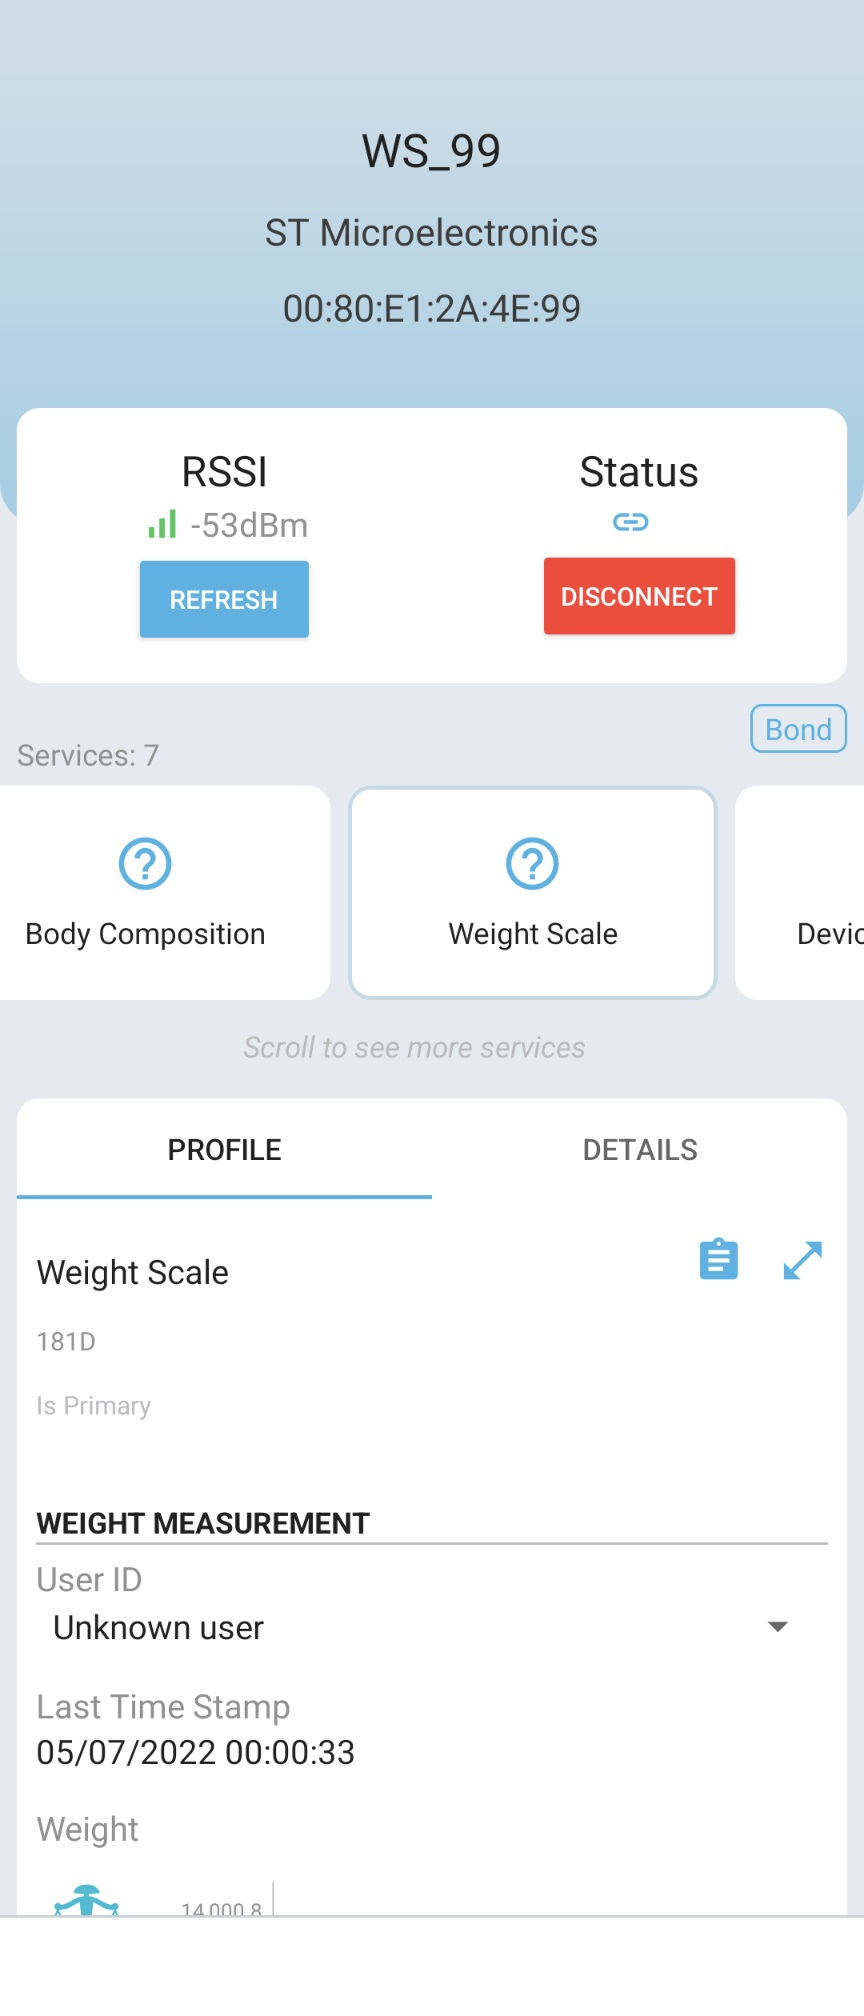
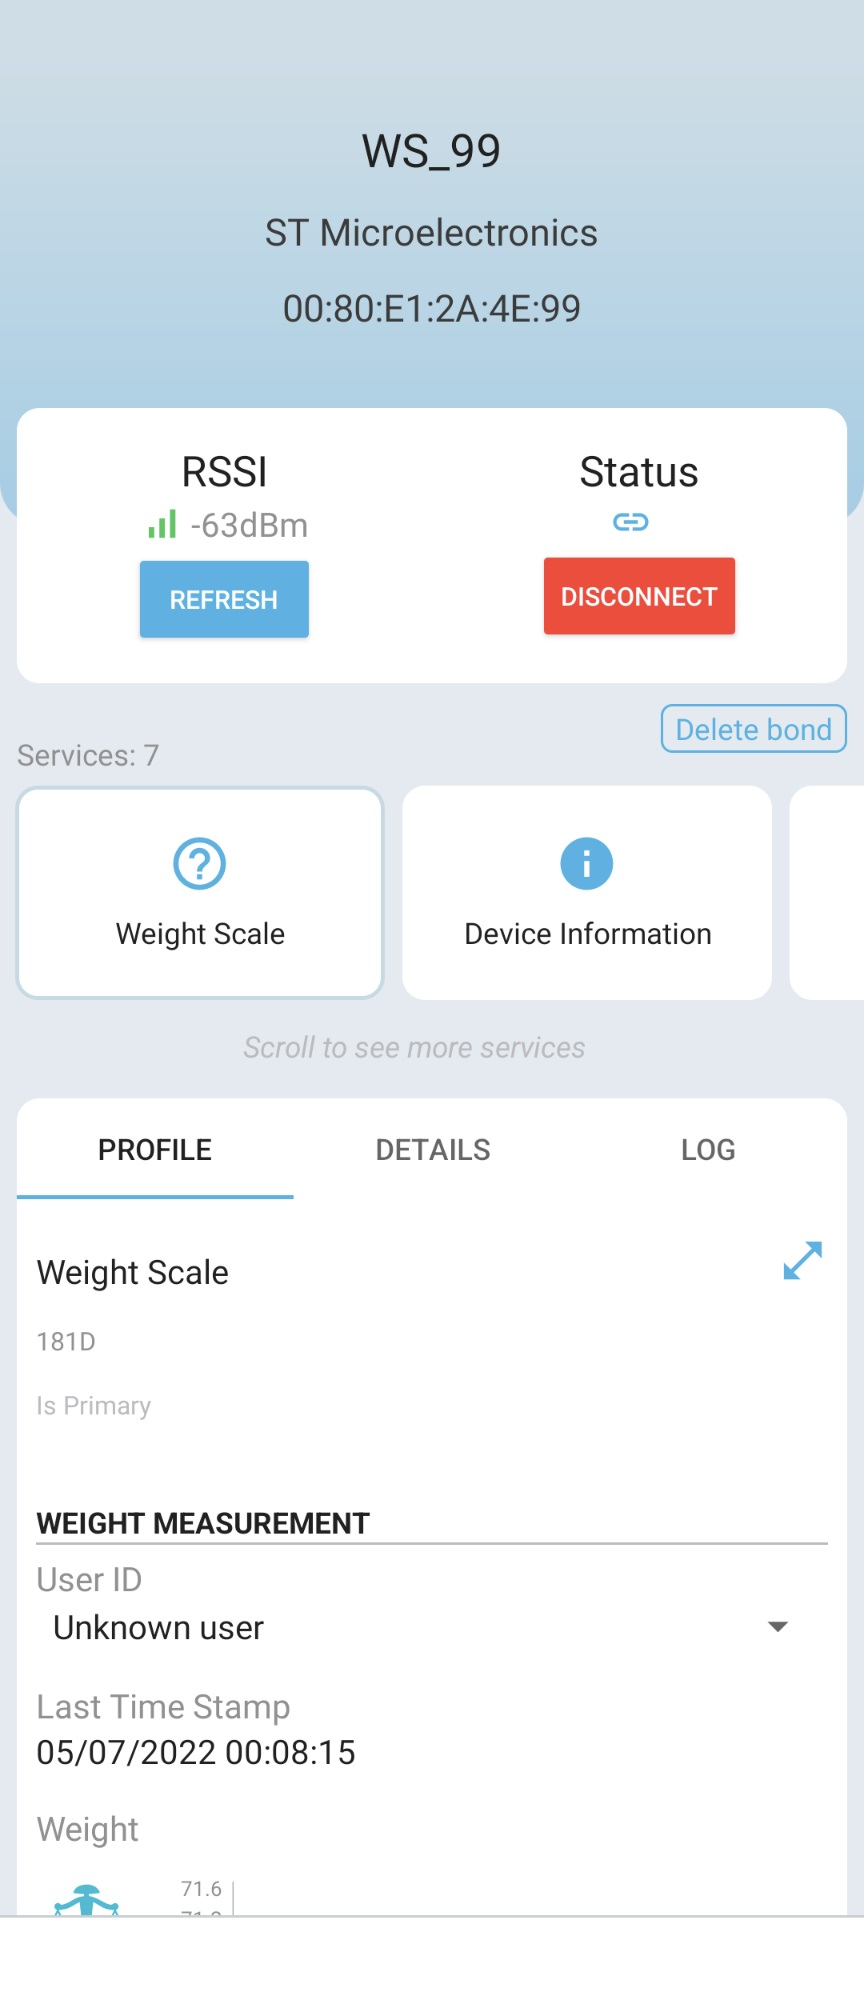
Update README.md, new pictures, remove pairing constraints

diff --git a/Projects/NUCLEO-WBA55CG/Applications/BLE/BLE_WeightScale/STM32_WPAN/App/bcs_app.c b/Projects/NUCLEO-WBA55CG/Applications/BLE/BLE_WeightScale/STM32_WPAN/App/bcs_app.c
@@ -63,7 +63,6 @@ typedef struct
   uint8_t Indication_Status;
   UTIL_TIMER_Object_t TimerMeasurement_Id;
   uint32_t StartTick;
-  uint8_t Paired;
   /* USER CODE END Service3_APP_Context_t */
   uint16_t              ConnectionHandle;
 } BCS_APP_Context_t;
@@ -144,24 +143,18 @@ void BCS_Notification(BCS_NotificationEvt_t *p_Notification)
 
     case BCS_BCM_INDICATE_ENABLED_EVT:
       /* USER CODE BEGIN Service3Char2_INDICATE_ENABLED_EVT */
-      if(BCS_APP_Context.Paired == TRUE)
-      {  
-        BCS_APP_Context.Indication_Status = 1;
-        
-        UTIL_TIMER_Stop(&(BCS_APP_Context.TimerMeasurement_Id));
-        UTIL_TIMER_StartWithPeriod(&(BCS_APP_Context.TimerMeasurement_Id), BCS_APP_MEASUREMENT_INTERVAL);
-      }
+      BCS_APP_Context.Indication_Status = 1;
+      
+      UTIL_TIMER_Stop(&(BCS_APP_Context.TimerMeasurement_Id));
+      UTIL_TIMER_StartWithPeriod(&(BCS_APP_Context.TimerMeasurement_Id), BCS_APP_MEASUREMENT_INTERVAL);
       /* USER CODE END Service3Char2_INDICATE_ENABLED_EVT */
       break;
 
     case BCS_BCM_INDICATE_DISABLED_EVT:
       /* USER CODE BEGIN Service3Char2_INDICATE_DISABLED_EVT */
-      if(BCS_APP_Context.Paired == TRUE)
-      {  
-        BCS_APP_Context.Indication_Status = 0;
-        
-        UTIL_TIMER_Stop(&(BCS_APP_Context.TimerMeasurement_Id));
-      }
+      BCS_APP_Context.Indication_Status = 0;
+      
+      UTIL_TIMER_Stop(&(BCS_APP_Context.TimerMeasurement_Id));
       /* USER CODE END Service3Char2_INDICATE_DISABLED_EVT */
       break;
 
@@ -198,7 +191,7 @@ void BCS_APP_EvtRx(BCS_APP_ConnHandleNotEvt_t *p_Notification)
     /* USER CODE END Service3_APP_EvtRx_Service3_EvtOpcode */
     case BCS_CONN_HANDLE_EVT :
       /* USER CODE BEGIN Service3_APP_CONN_HANDLE_EVT */
-      BCS_APP_Context.Paired = p_Notification->PairingComplete;
+
       /* USER CODE END Service3_APP_CONN_HANDLE_EVT */
       break;
 

diff --git a/Projects/NUCLEO-WBA55CG/Applications/BLE/BLE_WeightScale/STM32_WPAN/App/wss_app.c b/Projects/NUCLEO-WBA55CG/Applications/BLE/BLE_WeightScale/STM32_WPAN/App/wss_app.c
@@ -63,7 +63,6 @@ typedef struct
   uint8_t Indication_Status;
   UTIL_TIMER_Object_t TimerMeasurement_Id;
   uint32_t StartTick;
-  uint8_t Paired;
   /* USER CODE END Service2_APP_Context_t */
   uint16_t              ConnectionHandle;
 } WSS_APP_Context_t;
@@ -148,19 +147,13 @@ void WSS_Notification(WSS_NotificationEvt_t *p_Notification)
 
     case WSS_MNBS_INDICATE_ENABLED_EVT:
       /* USER CODE BEGIN Service2Char2_INDICATE_ENABLED_EVT */
-      if(WSS_APP_Context.Paired == TRUE)
-      {
-        WSS_APP_Context.Indication_Status = 1;
-      }
+      WSS_APP_Context.Indication_Status = 1;
       /* USER CODE END Service2Char2_INDICATE_ENABLED_EVT */
       break;
 
     case WSS_MNBS_INDICATE_DISABLED_EVT:
       /* USER CODE BEGIN Service2Char2_INDICATE_DISABLED_EVT */
-      if(WSS_APP_Context.Paired == TRUE)
-      {
-        WSS_APP_Context.Indication_Status = 0;
-      }
+      WSS_APP_Context.Indication_Status = 0;
       /* USER CODE END Service2Char2_INDICATE_DISABLED_EVT */
       break;
 
@@ -194,7 +187,7 @@ void WSS_APP_EvtRx(WSS_APP_ConnHandleNotEvt_t *p_Notification)
     /* USER CODE END Service2_APP_EvtRx_Service2_EvtOpcode */
     case WSS_CONN_HANDLE_EVT :
       /* USER CODE BEGIN Service2_APP_CONN_HANDLE_EVT */
-      WSS_APP_Context.Paired = p_Notification->PairingComplete;
+
       /* USER CODE END Service2_APP_CONN_HANDLE_EVT */
       break;
 

diff --git a/README.md b/README.md
@@ -11,18 +11,44 @@
 
 1) Run this Bluetooth® Low Energy Weight Scale project where the STM32WBA will advertise
 
-2) Use the ANDROID/IOS ST BLE Sensor application or ST BLE Toolbox application to connect with this Bluetooth® Low Energy [Weight Scale Profile 1.0](https://www.bluetooth.org/docman/handlers/downloaddoc.ashx?doc_id=293525) (WSS_XX where XX is the 2 last digit of the Bluetooth® Device Address)
+2) Use one of the following remote interfaces to interact with your device: <a href="https://wiki.st.com/stm32mcu/wiki/Connectivity:BLE_smartphone_applications#Bluetooth-C2-AE_LE_collector_applications_for_STM32WBA
+"> Bluetooth LE collector applications for STM32WBA.</a>
+   On the smartphone, download the <a href="https://wiki.st.com/stm32mcu/wiki/Connectivity:BLE_smartphone_applications#Bluetooth-C2-AE_LE_collector_applications_for_STM32WBA
+"> Bluetooth LE collector applications for STM32WBA.</a> application.
+
+With the ANDROID/IOS ST BLE Toolbox application to connect with this Bluetooth® Low Energy [Weight Scale Profile 1.0](https://www.bluetooth.org/docman/handlers/downloaddoc.ashx?doc_id=293525) (WSS_XX where XX is the 2 last digit of the Bluetooth® Device Address)
   
    Scan on ANDROID/IOS:
    <div align="center">
        <img src="Utilities/Media/WSS_Toolbox.jpg" alt="image" width="300" height="auto">
    </div>
-
-   After Connection and Selecting the [Weight Scale Service 1.0](https://www.bluetooth.org/docman/handlers/downloaddoc.ashx?doc_id=293526) on ANDROID/IOS you will see the following Characteristics:
+   
+   After Connection select the Bond button to pair the device.
+   
+   After Pairing and Selecting the [Weight Scale Service 1.0](https://www.bluetooth.org/docman/handlers/downloaddoc.ashx?doc_id=293526) on ANDROID/IOS you will see the following Characteristics:
    <div align="center">
        <img src="Utilities/Media/WSS_Toolbox1.jpg" alt="image" width="300" height="auto">
        <img src="Utilities/Media/WSS_Toolbox2.jpg" alt="image" width="300" height="auto">
-     </div>
+   </div>
+   
+   When Selecting the [Body Composition Service 1.0](https://www.bluetooth.com/specifications/specs/body-composition-service-1-0/) you will see the following Characteristics:
+   <div align="center">
+       <img src="Utilities/Media/BCS_Toolbox1.jpg" alt="image" width="300" height="auto">
+       <img src="Utilities/Media/BCS_Toolbox2.jpg" alt="image" width="300" height="auto">
+       <img src="Utilities/Media/BCS_Toolbox3.jpg" alt="image" width="300" height="auto">
+       <img src="Utilities/Media/BCS_Toolbox4.jpg" alt="image" width="300" height="auto">
+   </div>
+	
+   When Selecting the [Current Service 1.1](https://www.bluetooth.com/specifications/specs/current-time-service-1-1/) you will see the following Characteristics:
+   <div align="center">
+       <img src="Utilities/Media/CTS_Toolbox1.jpg" alt="image" width="300" height="auto">
+       <img src="Utilities/Media/CTS_Toolbox2.jpg" alt="image" width="300" height="auto">
+   </div>
+	
+   When Selecting the [Battery Service 1.0](https://www.bluetooth.com/specifications/specs/battery-service-1-0/) you will see the following Characteristics:
+   <div align="center">
+       <img src="Utilities/Media/BAS_Toolbox.jpg" alt="image" width="300" height="auto">
+   </div>
 	
 3) Use terminal programs like Tera Term to see the logs of each board via the onboard ST-Link. (115200/8/1/n)
 
